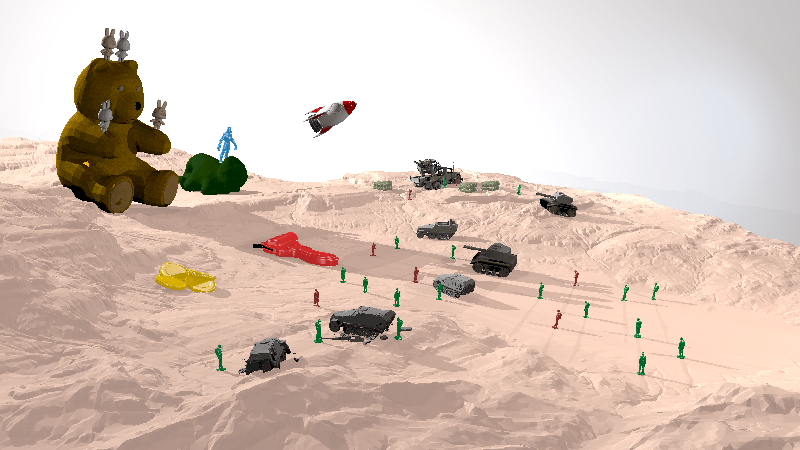
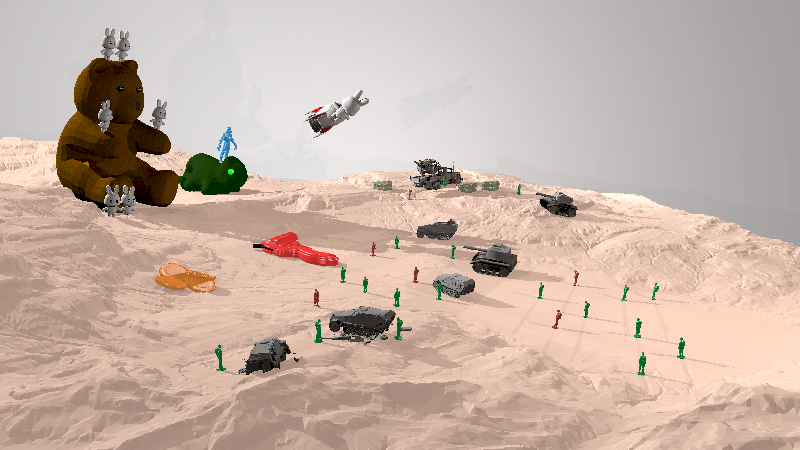
Saving before final render of childish (i hope)

diff --git a/RaytracerV08/src/edu/up/isgc/raytracer/Raytracer.java b/RaytracerV08/src/edu/up/isgc/raytracer/Raytracer.java
@@ -30,10 +30,10 @@ public class Raytracer {
  */
 
 
-
-
         int width = 4096;
         int height = 2160;
+
+
 
 
 
@@ -134,11 +134,17 @@ public class Raytracer {
         //Obj.RenderObj(scene, groundPath, groundMTL);
 
         //GOOD GUYS
-        String brownBunniesPath = new File("W:\\-UP_PC-\\4th_SEMESTER\\MMCG_FOURTH_SEMESTER_RLG\\RayTracer_Objs\\Aftermath_Scene\\BrownBunnies.obj").getAbsolutePath();
-        BufferedImage brownBunniesTEX = ImageIO.read(new File("C:\\Users\\rodlo\\Downloads\\Aftermath\\Added\\TwoBunnies\\brownTexture.jpg"));
+        //String brownBunniesPath = new File("W:\\-UP_PC-\\4th_SEMESTER\\MMCG_FOURTH_SEMESTER_RLG\\RayTracer_Objs\\Aftermath_Scene\\BrownBunnies.obj").getAbsolutePath();
+        //BufferedImage brownBunniesTEX = ImageIO.read(new File("C:\\Users\\rodlo\\Downloads\\Aftermath\\Added\\TwoBunnies\\brownTexture.jpg"));
 
         String whiteBunniesPath = new File("W:\\-UP_PC-\\4th_SEMESTER\\MMCG_FOURTH_SEMESTER_RLG\\RayTracer_Objs\\Aftermath_Scene\\WhiteBunnies.obj").getAbsolutePath();
-        BufferedImage whiteBunniesTEX = ImageIO.read(new File("C:\\Users\\rodlo\\Downloads\\Aftermath\\Added\\TwoBunnies\\whiteTexture.jpg"));
+        String bunniesEarsPath = new File("W:\\-UP_PC-\\4th_SEMESTER\\MMCG_FOURTH_SEMESTER_RLG\\RayTracer_Objs\\Aftermath_Scene\\BunniesEars.obj").getAbsolutePath();
+        String bunniesEyesPath = new File("W:\\-UP_PC-\\4th_SEMESTER\\MMCG_FOURTH_SEMESTER_RLG\\RayTracer_Objs\\Aftermath_Scene\\BunniesEyes.obj").getAbsolutePath();
+        String bunniesNosesPath = new File("W:\\-UP_PC-\\4th_SEMESTER\\MMCG_FOURTH_SEMESTER_RLG\\RayTracer_Objs\\Aftermath_Scene\\BunniesNoses.obj").getAbsolutePath();
+        BufferedImage whiteBunniesTEX = ImageIO.read(new File("C:\\Users\\rodlo\\Downloads\\Aftermath\\Added\\TwoBunnies\\whiteTexture2.jpg"));
+
+        String eyesPath = new File("W:\\-UP_PC-\\4th_SEMESTER\\MMCG_FOURTH_SEMESTER_RLG\\RayTracer_Objs\\Aftermath_Scene\\Eyes.obj").getAbsolutePath();
+        String eyes02Path = new File("W:\\-UP_PC-\\4th_SEMESTER\\MMCG_FOURTH_SEMESTER_RLG\\RayTracer_Objs\\Aftermath_Scene\\Eyes02.obj").getAbsolutePath();
 
         String orangeToyGun_BodyPath = new File("W:\\-UP_PC-\\4th_SEMESTER\\MMCG_FOURTH_SEMESTER_RLG\\RayTracer_Objs\\Aftermath_Scene\\OrangeToyGun_Body.obj").getAbsolutePath();
         String blackToyGun_DetailsPath = new File("W:\\-UP_PC-\\4th_SEMESTER\\MMCG_FOURTH_SEMESTER_RLG\\RayTracer_Objs\\Aftermath_Scene\\BlackToyGun_Details.obj").getAbsolutePath();
@@ -156,17 +162,17 @@ public class Raytracer {
         BufferedImage rocketTEX = ImageIO.read(new File("C:\\Users\\rodlo\\Downloads\\Aftermath\\Toy Rocket 4K\\Toy Rocket_Toy Ship_BaseColor.png"));
 
         String wallPath = new File("W:\\-UP_PC-\\4th_SEMESTER\\MMCG_FOURTH_SEMESTER_RLG\\RayTracer_Objs\\Aftermath_Scene\\Wall.obj").getAbsolutePath();
-        Obj.RenderObj(scene, wallPath, Material.GROUND(new Color(90,90,90)));
+        Obj.RenderObj(scene, wallPath, Material.GROUND(new Color(60,60,60)));
 
         //Polygon greenChamaleon = new Polygon(greenChamaleonPath, Color.BLACK, 0.0, 0.0, greenChamaleonTEX);
         //scene.addPolygon( greenChamaleon );
 
 
-        Polygon brownBunnies = new Polygon(brownBunniesPath, new Color(95, 100, 100), 0.0, 0.0, brownBunniesTEX);
+        //Polygon brownBunnies = new Polygon(brownBunniesPath, new Color(95, 100, 100), 0.0, 0.0, brownBunniesTEX);
         Polygon whiteBunnies = new Polygon(whiteBunniesPath, new Color(95, 100, 100), 0.0, 0.0, whiteBunniesTEX);
         Polygon teddyBear = new Polygon(teddyBearPath, Color.BLACK, 0.0, 0.0, teddyBearTEX);
         Polygon rocket = new Polygon(rocketPath, Color.BLACK, 1, 0.0, rocketTEX);
-        scene.addPolygon( brownBunnies );
+        //scene.addPolygon( brownBunnies );
         scene.addPolygon( whiteBunnies );
         scene.addPolygon( teddyBear );
         scene.addPolygon( rocket );
@@ -174,8 +180,13 @@ public class Raytracer {
         Obj.RenderObj(scene, orangeToyGun_BodyPath, Material.PLASTIC(new Color(150, 10, 10)));
         Obj.RenderObj(scene, blackToyGun_DetailsPath, Material.PLASTIC(new Color(5,5,5)));
         Obj.RenderObj(scene, coolAssSoldierPath, Material.PLASTIC(new Color(10,60,120)));
-        Obj.RenderObj(scene, coinsPath, Material.PLASTIC(new Color(150,100,0)));
+        Obj.RenderObj(scene, coinsPath, Material.PLASTIC(new Color(150, 50, 10)));
         Obj.RenderObj(scene, greenChamaleonPath, Material.GROUND(new Color(3,10,1)));
+        Obj.RenderObj(scene, bunniesEarsPath, Material.GROUND(Color.PINK));
+        Obj.RenderObj(scene, bunniesEyesPath, Material.PLASTIC(Color.BLACK));
+        Obj.RenderObj(scene, bunniesNosesPath, Material.GROUND(Color.PINK));
+        Obj.RenderObj(scene, eyesPath, Material.PLASTIC(Color.BLACK));
+        Obj.RenderObj(scene, eyes02Path, Material.PLASTIC(Color.GREEN));
 
 
 
@@ -194,6 +205,8 @@ public class Raytracer {
         scene.addPolygon( armouredTrucks );
         scene.addPolygon( tanks );
         scene.addPolygon( truckAndTurret );
+
+
 
 
 
@@ -230,7 +243,7 @@ public class Raytracer {
 
 
         Light light03 = new Point(1f, Color.WHITE, new Vector3D(-1, 0.2, -2.5));
-        Light light04 = new Point(6f, Color.WHITE, new Vector3D(1.75, 1.2, -2.6));
+        Light light04 = new Point(5.3f, Color.WHITE, new Vector3D(1.75, 1.2, -2.9));
         Light light05 = new Point(0.5f, new Color(192,167,156), new Vector3D(0.5, 0, -5));
         Light light06 = new Point(0.5f, new Color(192,167,156), new Vector3D(-1, 0, -4));
 
@@ -241,7 +254,7 @@ public class Raytracer {
         Light light0S02 = new Spot(10f, Color.WHITE,new Vector3D(-1.3, -2, -4), new Vector3D(0.9, 0.3, -2.5), 0.5f, 1f);
         Light light0S03 = new Spot(1.5f, new Color(192,167,156), new Vector3D(-1.2, -2, -1.0), new Vector3D(1, 2, -3), 0.5f, 1f);
         Light light0S04 = new Spot(1f, new Color(192,167,156),new Vector3D(1, -1.7, 1), new Vector3D(-1.3, 0.1, -4.3), 0.5f, 1f);
-        Light light0S_BACK = new Spot(0.2f, new Color(100,140,190),new Vector3D(50, -30, 100), new Vector3D(-2.2, 0.65, -1.3), 0.5f, 1f);
+        //Light light0S_BACK = new Spot(0.2f, new Color(100,140,190),new Vector3D(50, -30, 100), new Vector3D(-2.2, 0.65, -1.3), 0.5f, 1f);
 
         //Light light05 = new Point(10f, Color.WHITE, new Vector3D(-3, 1, -5));
         //Light light06 = new Point(5f, new Color(192,167,156), new Vector3D(-3, 0, -7));
